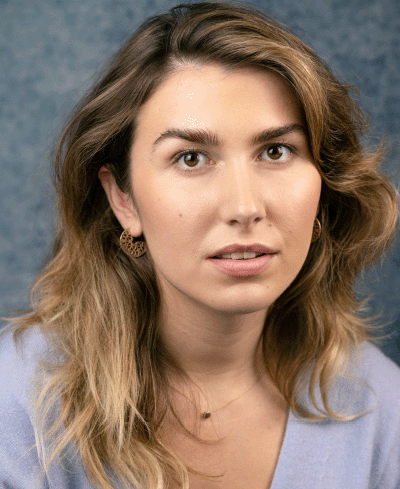
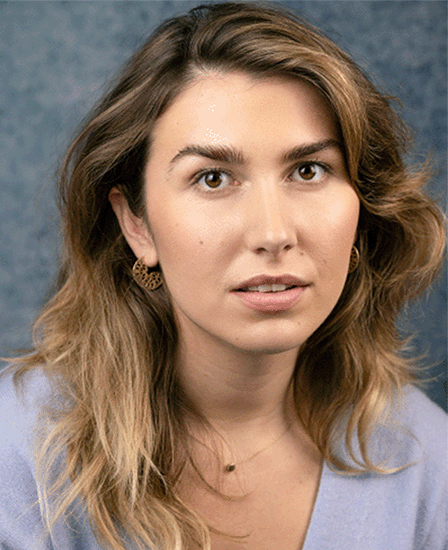
Added new profile images. Added Alison and Becky to Cast

diff --git a/cast.html b/cast.html
@@ -145,7 +145,8 @@
                                             <p class="content-p-profile my-b text-uppercase"><i
                                                     class="fas fa-circle"></i>&emsp;<strong>Dance Choreographer</strong>
                                             </p>
-                                            <p class="content-p my-b">&emsp;-&emsp;<i>Alison Norcross</i></p>
+                                            <p class="content-p my-b">&emsp;-&emsp;<i>Alison Norcross/ Becky Hill</i>
+                                            </p>
                                             <p class="content-p-profile my-b text-uppercase"><i
                                                     class="fas fa-circle"></i>&emsp;<strong>Musician</strong></p>
                                             <p class="content-p my-b">&emsp;-&emsp;<i>Kate Grant</i></p>
@@ -413,8 +414,8 @@
                             <div class="col-md-6 col-lg-4 col-xl-4 mb-2">
                                 <div class="row text-margin mt-4 mb-0">
                                     <div class="text-box-inside-profile text-center pl-4 pt-4 pr-4 pb-0">
-                                        <img src="assets/images/profile.png" class="img-fluid profile mb-5 mt-5 myImg"
-                                            alt="Profile - Alison Norcross" />
+                                        <img src="assets/images/profile/alison-norcross.png"
+                                            class="img-fluid profile mb-5 mt-5 myImg" alt="Profile - Alison Norcross" />
                                         <!-- Modal -->
                                         <div id="myModal" class="modal">
                                             <span class="close">&times;</span> <img class="modal-content" id="img01" />
@@ -440,6 +441,36 @@
                                             they are regular participants in the national finals of the All England
                                             Dance Competition. Alison will choreograph
                                             dances to weave into Ignite's production of Grimm's Fairytales 2022
+                                            <br />
+                                            <br />
+                                        </p>
+                                    </div>
+                                </div>
+                            </div>
+                            <div class="col-md-6 col-lg-4 col-xl-4 mb-2">
+                                <div class="row text-margin mt-4 mb-0">
+                                    <div class="text-box-inside-profile text-center pl-4 pt-4 pr-4 pb-0">
+                                        <img src="assets/images/profile/becky-hill.png"
+                                            class="img-fluid profile mb-5 mt-5 myImg" alt="Profile - Becky Hill" />
+                                        <!-- Modal -->
+                                        <div id="myModal" class="modal">
+                                            <span class="close">&times;</span> <img class="modal-content" id="img01" />
+                                            <div id="caption"></div>
+                                        </div>
+                                        <p class="content-h-bio text-uppercase mb-4">Becky Hill</p>
+                                        <p class="content-p-profile pr-3" id="overflowTest">
+                                            Alison Norcross (Principal) and Becky Hill (Teacher) are so excited to be
+                                            apart of this wonderful production.
+                                            <br />
+                                            <br />
+                                            Collectively, we have choreographed routines for Disneyland Paris, All
+                                            England Dance Finals, Pantomimes and West End
+                                            children shows.
+                                            <br />
+                                            <br />
+                                            We are looking forward to being apart of the Ignite family. We would like to
+                                            wish everyone involved in Grandma’s Grimm
+                                            the best of luck. “Break a leg”
                                             <br />
                                             <br />
                                         </p>

diff --git a/assets/css/style.css b/assets/css/style.css
@@ -704,7 +704,7 @@ iframe {
   }
 }
 
-/*---Reduce MR ML for text content for better spacing and reading for sm---*/
+/*---Reduce MR ML for text content for better spacing and reading for sm about page---*/
 
 @media (min-width: 767px) {
   .text-margin {
